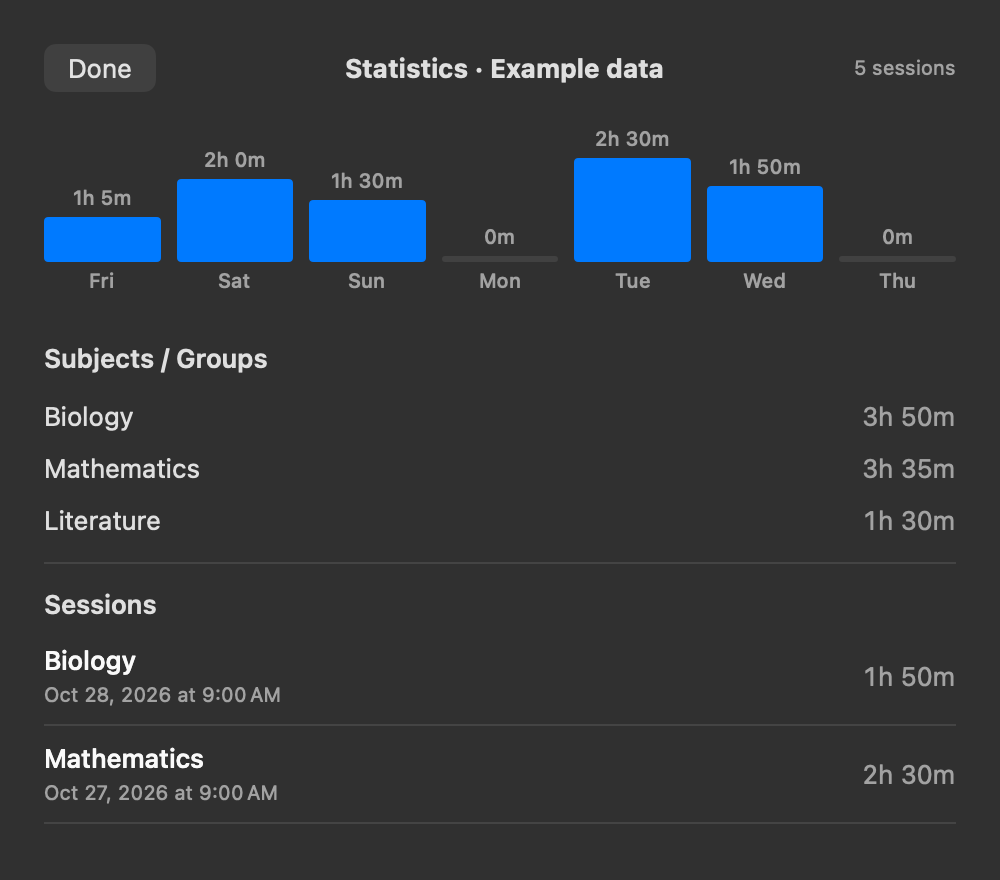
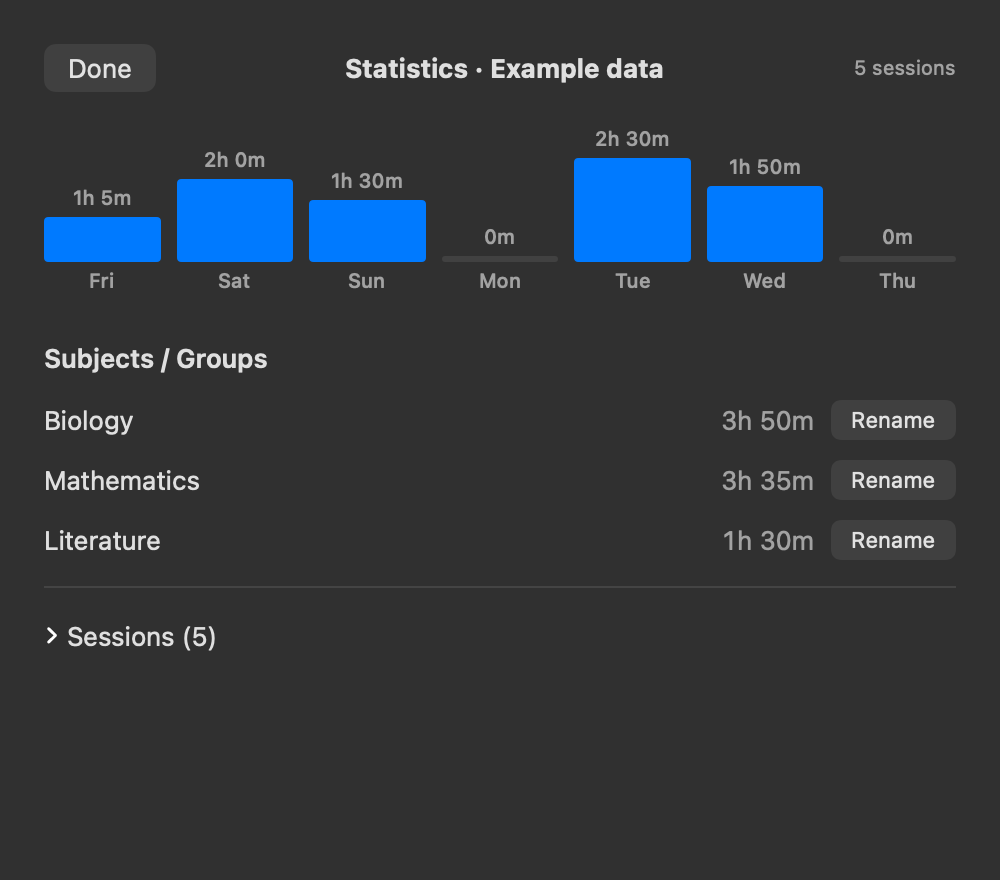
Keep the tracker visible and add group deletion

diff --git a/helper/main.swift b/helper/main.swift
@@ -91,7 +91,9 @@ final class Store: ObservableObject {
     }
     func startMonitoring() {
         poll()
-        timer = Timer.scheduledTimer(withTimeInterval: 5, repeats: true) { [weak self] _ in self?.poll() }
+        let monitor = Timer(timeInterval: 2, repeats: true) { [weak self] _ in self?.poll() }
+        RunLoop.main.add(monitor, forMode: .common)
+        timer = monitor
     }
     @discardableResult func save() -> Bool {
         guard archiveHealthy else { return false }
@@ -184,6 +186,18 @@ final class Store: ObservableObject {
             throw groupError("Could not save the group. Try again.")
         }
     }
+    func deleteGroup(_ input: String) throws {
+        let name = try validatedGroupName(input)
+        guard groups().contains(where: { sameGroup($0, name) }) else { throw groupError("That group no longer exists.") }
+        let previousGroups = storedGroups, previousSessions = sessions, previousNextName = nextName
+        storedGroups.removeAll { sameGroup($0, name) }
+        for index in sessions.indices where sameGroup(sessions[index].name, name) { sessions[index].name = "Focus session" }
+        if sameGroup(nextName, name) { nextName = "" }
+        if !save() {
+            storedGroups = previousGroups; sessions = previousSessions; nextName = previousNextName
+            throw groupError("Could not delete the group. Try again.")
+        }
+    }
     var commandDirectory: URL { archiveURL.deletingLastPathComponent().appendingPathComponent("commands", isDirectory: true) }
     func processCommands() {
         let urls = (try? FileManager.default.contentsOfDirectory(at: commandDirectory, includingPropertiesForKeys: nil)) ?? []
@@ -200,6 +214,8 @@ final class Store: ObservableObject {
                     let previous = sessions[i].name
                     sessions[i].name = canonical
                     if !save() { sessions[i].name = previous; throw groupError("Could not save the session. Try again.") }
+                case "deleteGroup":
+                    try deleteGroup(command.name)
                 case "addGroup":
                     try addGroup(command.name)
                 case "renameGroup":
@@ -274,6 +290,8 @@ struct Dashboard: View {
     @State private var now = Date()
     @State private var showGroups = false
     @State private var groupEditor: GroupEditorRequest?
+    @State private var sessionsExpanded = false
+    @State private var statisticsHovered = false
     let clock = Timer.publish(every: 1, on: .main, in: .common).autoconnect()
     var remaining: TimeInterval? { store.sessions.first(where: { $0.actualEnd == nil }).map { max(0, $0.plannedEnd.timeIntervalSince(now)) } }
     var statusColor: Color {
@@ -296,6 +314,17 @@ struct Dashboard: View {
         }
         return sums.sorted { $0.seconds > $1.seconds }
     }
+    private func deleteGroup(_ name: String) {
+        let alert = NSAlert()
+        alert.messageText = "Delete this group?"
+        alert.informativeText = "Its sessions will stay in your history without a subject."
+        alert.addButton(withTitle: "Delete")
+        alert.addButton(withTitle: "Cancel")
+        if alert.runModal() == .alertFirstButtonReturn {
+            do { try store.deleteGroup(name) }
+            catch { let errorAlert = NSAlert(error: error); errorAlert.runModal() }
+        }
+    }
     var body: some View {
         VStack(spacing: 16) {
             if showGroups {
@@ -316,6 +345,7 @@ struct Dashboard: View {
                                     Text(name)
                                     Spacer()
                                     Button("Rename") { groupEditor = GroupEditorRequest(original: name) }.controlSize(.small)
+                                    Button("Delete") { deleteGroup(name) }.controlSize(.small)
                                 }.padding(.vertical, 8)
                                 Divider()
                             }
@@ -358,7 +388,7 @@ struct Dashboard: View {
                                 }.padding(.vertical, 5)
                             }
                             Divider().padding(.vertical, 8)
-                            HStack { Text("Sessions").fontWeight(.semibold); Spacer() }.padding(.vertical, 4)
+                            DisclosureGroup("Sessions (\(store.sessions.count))", isExpanded: $sessionsExpanded) {
                             ForEach(store.sessions) { s in
                                 HStack {
                                     VStack(alignment: .leading, spacing: 3) {
@@ -370,6 +400,7 @@ struct Dashboard: View {
                                 }.padding(.vertical, 8)
                                 Divider()
                             }
+                            }.padding(.vertical, 4)
                         }
                     }
                 }
@@ -393,10 +424,18 @@ struct Dashboard: View {
                     Button("Open SelfControl") { NSWorkspace.shared.openApplication(at: URL(fileURLWithPath: NSHomeDirectory() + "/Applications/SelfControl.app"), configuration: NSWorkspace.OpenConfiguration()) }
                     Button("Groups") { showGroups = true }
                     Button("View Statistics") { showHistory = true }
+                        .tint(statisticsHovered ? .accentColor : nil)
+                        .scaleEffect(statisticsHovered ? 1.03 : 1)
+                        .animation(.easeOut(duration: 0.15), value: statisticsHovered)
+                        .onHover { statisticsHovered = $0 }
                 }.padding(.top, 4)
                 Spacer()
             }
         }.padding(22).frame(minWidth: 430, minHeight: 250).onReceive(clock) { now = $0 }
+        .onReceive(NotificationCenter.default.publisher(for: Notification.Name("SelfControlTrackerSessionStarted"))) { _ in
+            showHistory = false
+            showGroups = false
+        }
         .sheet(item: $groupEditor) { request in GroupEditor(store: store, original: request.original) }
     }
 }
@@ -443,19 +482,21 @@ final class Delegate: NSObject, NSApplicationDelegate, NSWindowDelegate {
         window.contentView = NSHostingView(rootView: Dashboard(store: store, isDemo: isDemo, previewTimer: previewTimer))
         if !isDemo {
             let item = NSStatusBar.system.statusItem(withLength: NSStatusItem.squareLength)
-            if let iconURL = Bundle.main.url(forResource: "SelfControlIcon", withExtension: "icns"), let icon = NSImage(contentsOf: iconURL) {
-                icon.size = NSSize(width: 18, height: 18)
-                icon.isTemplate = false
-                item.button?.image = icon
-            } else {
-                item.button?.image = NSImage(systemSymbolName: "chart.bar.xaxis", accessibilityDescription: "SelfControl Tracker")
-            }
+            let icon = NSImage(systemSymbolName: "timer", accessibilityDescription: "SelfControl Tracker")
+            icon?.isTemplate = true
+            item.button?.image = icon
             item.button?.setAccessibilityLabel("Open SelfControl Tracker")
             item.button?.target = self
             item.button?.action = #selector(toggleWindow)
             statusItem = item
-            store.onSessionStarted = { [weak self] id in self?.askForSubject(id) }
+            store.onSessionStarted = { [weak self] id in
+                NotificationCenter.default.post(name: Notification.Name("SelfControlTrackerSessionStarted"), object: nil)
+                self?.showWindow()
+                self?.askForSubject(id)
+                self?.showWindow()
+            }
             store.startMonitoring()
+            if store.running { showWindow() }
         }
         if CommandLine.arguments.contains("--preview-prompt") { DispatchQueue.main.async { self.askForSubject(UUID()) } }
         if !CommandLine.arguments.contains("--background") { showWindow() }
@@ -587,6 +628,11 @@ if CommandLine.arguments.contains("--self-test") {
     try! oldStore.renameGroup("Unassigned", to: "New name")
     let oldReload = Store(path: nil, archiveURL: oldArchiveURL, startTimer: false)
     precondition(oldReload.groups().contains("New name") && !oldReload.groups().contains("Unassigned") && oldReload.sessions[0].id == oldSession.id)
+    let countBeforeDelete = migrated.sessions.count
+    let endBeforeDelete = migrated.sessions[0].actualEnd
+    try! migrated.deleteGroup("Algebra")
+    precondition(migrated.sessions.count == countBeforeDelete && migrated.sessions[0].actualEnd == endBeforeDelete)
+    precondition(migrated.sessions[0].name == "Focus session" && !migrated.groups().contains("Algebra"))
     let corruptPath = path.deletingLastPathComponent().appendingPathComponent("corrupt.json")
     try! Data("not a valid archive".utf8).write(to: corruptPath)
     let corruptStore = Store(path: nil, archiveURL: corruptPath, startTimer: false)

diff --git a/src/groups.tsx b/src/groups.tsx
@@ -1,6 +1,6 @@
-import { Action, ActionPanel, Form, Icon, List, showToast, Toast, useNavigation } from "@raycast/api";
+import { Action, ActionPanel, confirmAlert, Alert, Form, Icon, List, showToast, Toast, useNavigation } from "@raycast/api";
 import { useCallback, useEffect, useState } from "react";
-import { addGroup, groups, renameGroup } from "./lib/storage";
+import { addGroup, groups, renameGroup, deleteGroup } from "./lib/storage";
 
 export function GroupForm({ original, onSaved }: { original?: string; onSaved: () => void }) {
   const { pop } = useNavigation();
@@ -39,11 +39,17 @@ export default function Groups() {
     finally { setLoading(false); }
   }, []);
   useEffect(() => { void refresh(); }, [refresh]);
+  async function remove(name: string) {
+    if (!await confirmAlert({ title: "Delete this group?", message: "Its sessions will stay in your history without a subject.", primaryAction: { title: "Delete Group", style: Alert.ActionStyle.Destructive } })) return;
+    const toast = await showToast({ style: Toast.Style.Animated, title: "Deleting group" });
+    try { await deleteGroup(name); toast.style = Toast.Style.Success; toast.title = "Group deleted"; await refresh(); }
+    catch (error) { toast.style = Toast.Style.Failure; toast.title = "Could not delete group"; toast.message = error instanceof Error ? error.message : undefined; }
+  }
   return <List isLoading={isLoading} searchBarPlaceholder="Search subjects or groups">
     <List.Item icon={Icon.Plus} title="Create Group" actions={<ActionPanel><Action.Push title="Create Group" target={<GroupForm onSaved={refresh} />} /></ActionPanel>} />
     {error && <List.Item icon={Icon.ExclamationMark} title="Could not read groups" subtitle={error} actions={<ActionPanel><Action title="Retry" onAction={refresh} /></ActionPanel>} />}
     {names.length > 0 && <List.Section title="Subjects / Groups">
-      {names.map((name) => <List.Item key={name} icon={Icon.Folder} title={name} subtitle="Available when starting a block" actions={<ActionPanel><Action.Push title="Rename Group" target={<GroupForm original={name} onSaved={refresh} />} /><Action.Push title="Create Group" target={<GroupForm onSaved={refresh} />} /></ActionPanel>} />)}
+      {names.map((name) => <List.Item key={name} icon={Icon.Folder} title={name} subtitle="Available when starting a block" actions={<ActionPanel><Action.Push title="Rename Group" target={<GroupForm original={name} onSaved={refresh} />} /><Action.Push title="Create Group" target={<GroupForm onSaved={refresh} />} /><Action title="Delete Group" style={Action.Style.Destructive} onAction={() => remove(name)} /></ActionPanel>} />)}
     </List.Section>}
   </List>;
 }

diff --git a/src/lib/storage.ts b/src/lib/storage.ts
@@ -120,3 +120,7 @@ export async function selfControlPath(): Promise<string> {
   }
   throw new Error("SelfControl was not found in Applications.");
 }
+
+export async function deleteGroup(input: string): Promise<void> {
+  await sendCommand({ type: "deleteGroup", name: validateName(input) });
+}

diff --git a/README.md b/README.md
@@ -4,9 +4,9 @@ A macOS companion for [SelfControl](https://selfcontrolapp.com/) with an optiona
 
 ## Use
 
-Start a block in SelfControl, then name its subject when prompted. Click the SelfControl icon in the menu bar and choose View Statistics to see your weekly chart and history. Use Groups in the popup or Raycast to create or rename groups; renaming updates their sessions. Raycast can also rename individual sessions.
+Start a block in SelfControl, then name its subject when prompted. Click the SelfControl icon in the menu bar and choose View Statistics to see your weekly chart and history. Use Groups in the popup or Raycast to create, rename, or delete groups. Renaming updates their sessions; deleting keeps the history without a subject. Raycast can also rename individual sessions.
 
-The status dot is green above five minutes, amber in the last five, and red in the last minute. The helper starts at login, has no Dock icon, and keeps tracking after you close the windows.
+The status dot is green above five minutes, amber in the last five, and red in the last minute. The helper starts at login, restarts if it exits, and opens the popup for new blocks. It has no Dock icon. Expand Sessions in Statistics to see individual records.
 
 ![Compact statistics window showing example study times across a week, with totals by subject](media/weekly-view.png)
 
@@ -35,7 +35,7 @@ To stop tracking until the next login, run `launchctl bootout gui/$(id -u)/local
 
 ## Data and tests
 
-History and groups stay in `~/Library/Application Support/Focus Ledger/`; the extension sends no session data to a server, and this repository contains no personal history. SelfControl does not provide a full session history or block start times. The helper records a start when it detects a block, usually within five seconds, and follows timer extensions. It cannot recover blocks missed while it was stopped. SelfControl updates may change its internal settings format.
+History and groups stay in `~/Library/Application Support/Focus Ledger/`; the extension sends no session data to a server, and this repository contains no personal history. SelfControl does not provide a full session history or block start times. The helper records a start when it detects a block, usually within two seconds, and follows timer extensions. It cannot recover blocks missed while it was stopped. SelfControl updates may change its internal settings format.
 
 Run `npm test`, `npm run typecheck`, and `npm run build` to check the extension. `scripts/install-helper.sh` runs a helper self-test. These tests do not start a real block.
 
